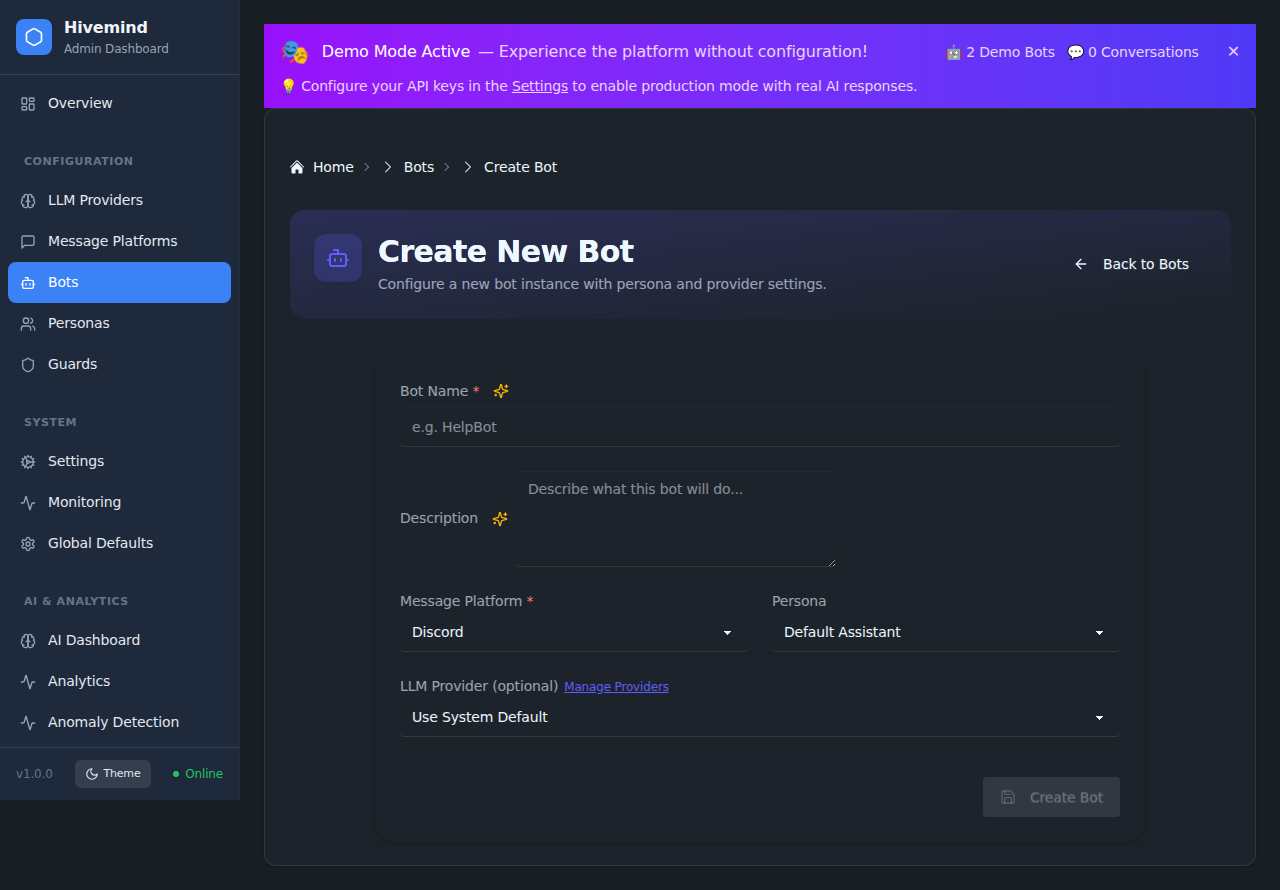
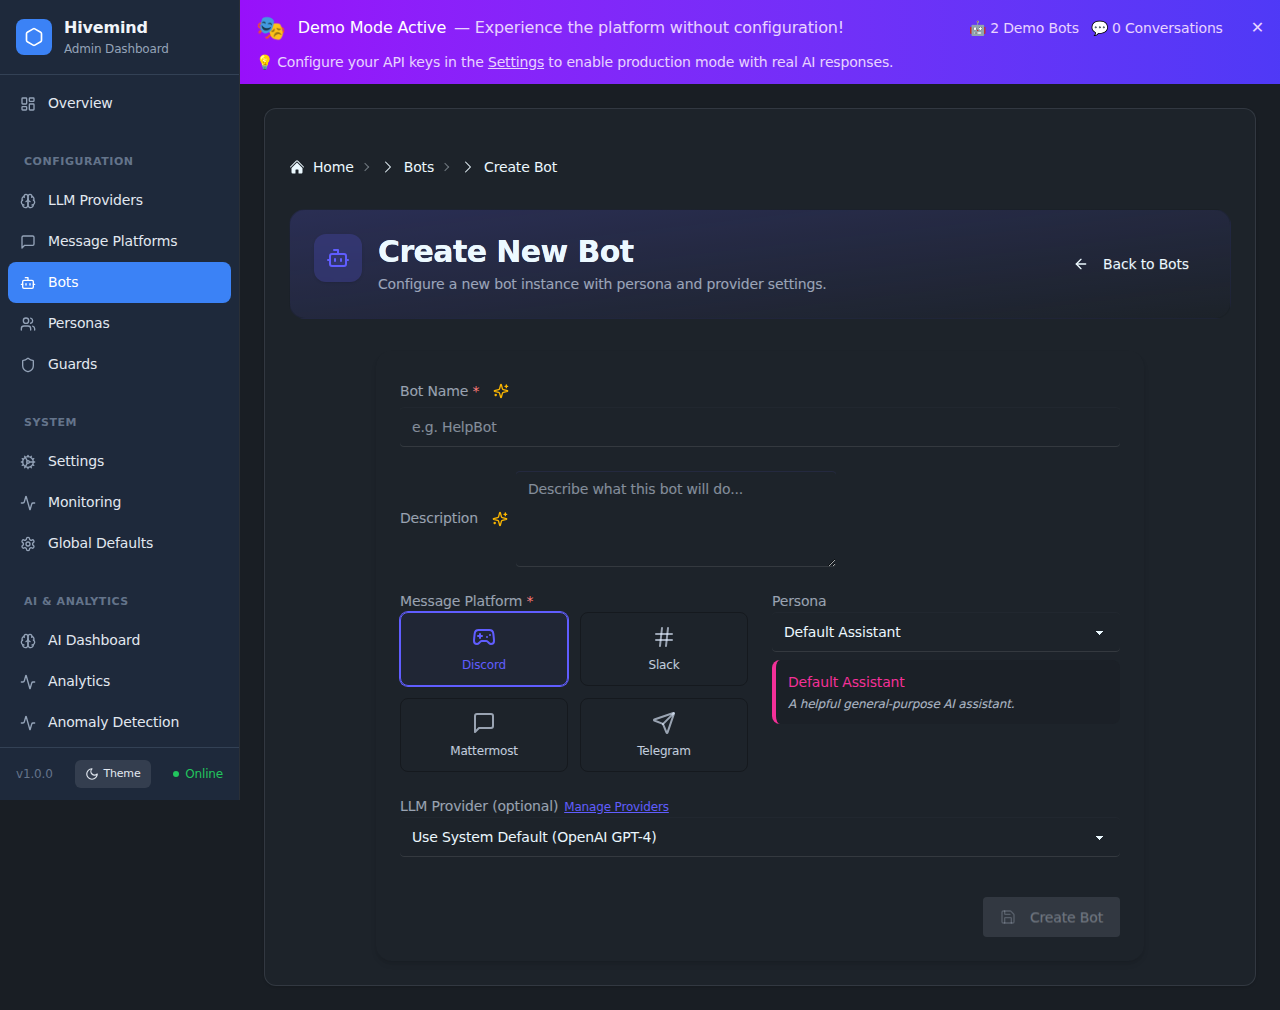
Merge branch 'main' into improve-bot-create-ui-10336687774404801303

diff --git a/src/client/src/pages/BotCreatePage.tsx b/src/client/src/pages/BotCreatePage.tsx
@@ -1,7 +1,7 @@
 /* eslint-disable @typescript-eslint/no-explicit-any */
 import React, { useState, useEffect } from 'react';
 import { useNavigate } from 'react-router-dom';
-import { Bot, Save, ArrowLeft } from 'lucide-react';
+import { Bot, Save, ArrowLeft, Gamepad2, Hash, MessageSquare, Send } from 'lucide-react';
 import {
   Breadcrumbs,
   Alert,
@@ -19,6 +19,7 @@ const BotCreatePage: React.FC = () => {
   const navigate = useNavigate();
   const { status: llmStatus } = useLlmStatus();
   const defaultLlmConfigured = llmStatus?.defaultConfigured ?? false;
+  const defaultProviderName = llmStatus?.defaultProviders?.[0]?.name;
 
   const [formData, setFormData] = useState({
     name: '',
@@ -86,6 +87,13 @@ const BotCreatePage: React.FC = () => {
   const handleInputChange = (field: string, value: string) => {
     setFormData(prev => ({ ...prev, [field]: value }));
   };
+
+  const platforms = [
+    { id: 'discord', label: 'Discord', icon: Gamepad2 },
+    { id: 'slack', label: 'Slack', icon: Hash },
+    { id: 'mattermost', label: 'Mattermost', icon: MessageSquare },
+    { id: 'telegram', label: 'Telegram', icon: Send },
+  ];
 
   return (
     <div className="space-y-6">
@@ -168,15 +176,25 @@ const BotCreatePage: React.FC = () => {
                   <label className="label">
                     <span className="label-text font-semibold">Message Platform <span className="text-error">*</span></span>
                   </label>
-                  <Select
-                    value={formData.platform}
-                    onChange={(e) => handleInputChange('platform', e.target.value)}
-                  >
-                    <option value="discord">Discord</option>
-                    <option value="slack">Slack</option>
-                    <option value="mattermost">Mattermost</option>
-                    <option value="telegram">Telegram</option>
-                  </Select>
+                  <div className="grid grid-cols-2 gap-3">
+                    {platforms.map((p) => (
+                      <div
+                        key={p.id}
+                        onClick={() => handleInputChange('platform', p.id)}
+                        className={`
+                          cursor-pointer border rounded-lg p-3 flex flex-col items-center justify-center gap-2 transition-all
+                          ${formData.platform === p.id
+                            ? 'border-primary bg-primary/5 ring-1 ring-primary'
+                            : 'border-base-300 hover:border-base-content/30 hover:bg-base-200/50'}
+                        `}
+                      >
+                        <p.icon className={`w-6 h-6 ${formData.platform === p.id ? 'text-primary' : 'text-base-content/60'}`} />
+                        <span className={`text-xs font-medium ${formData.platform === p.id ? 'text-primary' : 'text-base-content/80'}`}>
+                          {p.label}
+                        </span>
+                      </div>
+                    ))}
+                  </div>
                 </div>
 
                 {/* Persona */}
@@ -193,6 +211,20 @@ const BotCreatePage: React.FC = () => {
                       <option key={p.id} value={p.id}>{p.name}</option>
                     ))}
                   </Select>
+
+                  {/* Persona Preview */}
+                  <div className="mt-2 p-3 bg-base-200/50 rounded-lg text-sm border-l-4 border-secondary">
+                    <div className="font-semibold text-secondary">
+                      {formData.persona === 'default'
+                        ? 'Default Assistant'
+                        : personas.find(p => p.id === formData.persona)?.name || 'Unknown Persona'}
+                    </div>
+                    <div className="text-base-content/70 italic mt-1 text-xs">
+                      {formData.persona === 'default'
+                        ? 'A helpful general-purpose AI assistant.'
+                        : personas.find(p => p.id === formData.persona)?.description || 'No description available.'}
+                    </div>
+                  </div>
                 </div>
               </div>
 
@@ -208,7 +240,11 @@ const BotCreatePage: React.FC = () => {
                   value={formData.llmProvider}
                   onChange={(e) => handleInputChange('llmProvider', e.target.value)}
                 >
-                  <option value="">{defaultLlmConfigured ? 'Use System Default' : 'Select Provider...'}</option>
+                  <option value="">
+                    {defaultLlmConfigured
+                      ? `Use System Default (${defaultProviderName || 'Configured'})`
+                      : 'Select Provider...'}
+                  </option>
                   {llmProfiles.map((p) => (
                     <option key={p.key} value={p.key}>{p.name} ({p.provider})</option>
                   ))}

diff --git a/tests/e2e/screenshot-bot-create.spec.ts b/tests/e2e/screenshot-bot-create.spec.ts
@@ -100,6 +100,14 @@ test.describe('Bot Create Page Screenshots', () => {
     // We can check if the select has populated options
     // The "Persona" select should have "Friendly Helper"
     await expect(page.getByRole('combobox').filter({ hasText: 'Default Assistant' })).toBeVisible();
+
+    // Verify new Platform cards are visible
+    await expect(page.getByText('Discord', { exact: true })).toBeVisible();
+    await expect(page.getByText('Slack', { exact: true })).toBeVisible();
+
+    // Verify Persona Preview is visible (Default Assistant is selected by default)
+    await expect(page.getByText('A helpful general-purpose AI assistant.')).toBeVisible();
+
     // Or just wait a bit to be safe as animations might happen
     await page.waitForTimeout(1000);
 

diff --git a/docs/USER_GUIDE.md b/docs/USER_GUIDE.md
@@ -62,3 +62,18 @@ The Personas (Beta) feature allows you to define distinct AI personalities and s
 2.  **Define Behavior**: Enter a name, description, and the **System Prompt** (e.g., "You are a helpful assistant...").
 3.  **Assign Bots**: In the "Assign to Bots" section, select the bots that should use this persona.
 4.  **Save**: Click **Create Persona** (or **Save Changes**) to apply. The selected bots will now use the new system prompt.
+
+## Bot Management
+
+The Bot Management section allows you to create and configure AI assistants. The simplified creation flow helps you quickly deploy new bots to platforms like Discord, Slack, Mattermost, and Telegram.
+
+![Bot Creation Page](screenshots/bot-create-page.png)
+
+### Creating a New Bot
+
+1.  Navigate to **Bots** in the sidebar and click **Create Bot**.
+2.  **Name & Description**: Use the AI Assist button to generate creative names and descriptions.
+3.  **Platform Selection**: Choose your target messaging platform from the visual grid (Discord, Slack, etc.).
+4.  **Persona**: Select a persona to define the bot's personality. A preview card will show you the persona's details.
+5.  **LLM Provider**: Choose which AI model provider to use, or stick with the system default.
+6.  Click **Create Bot** to finalize.
